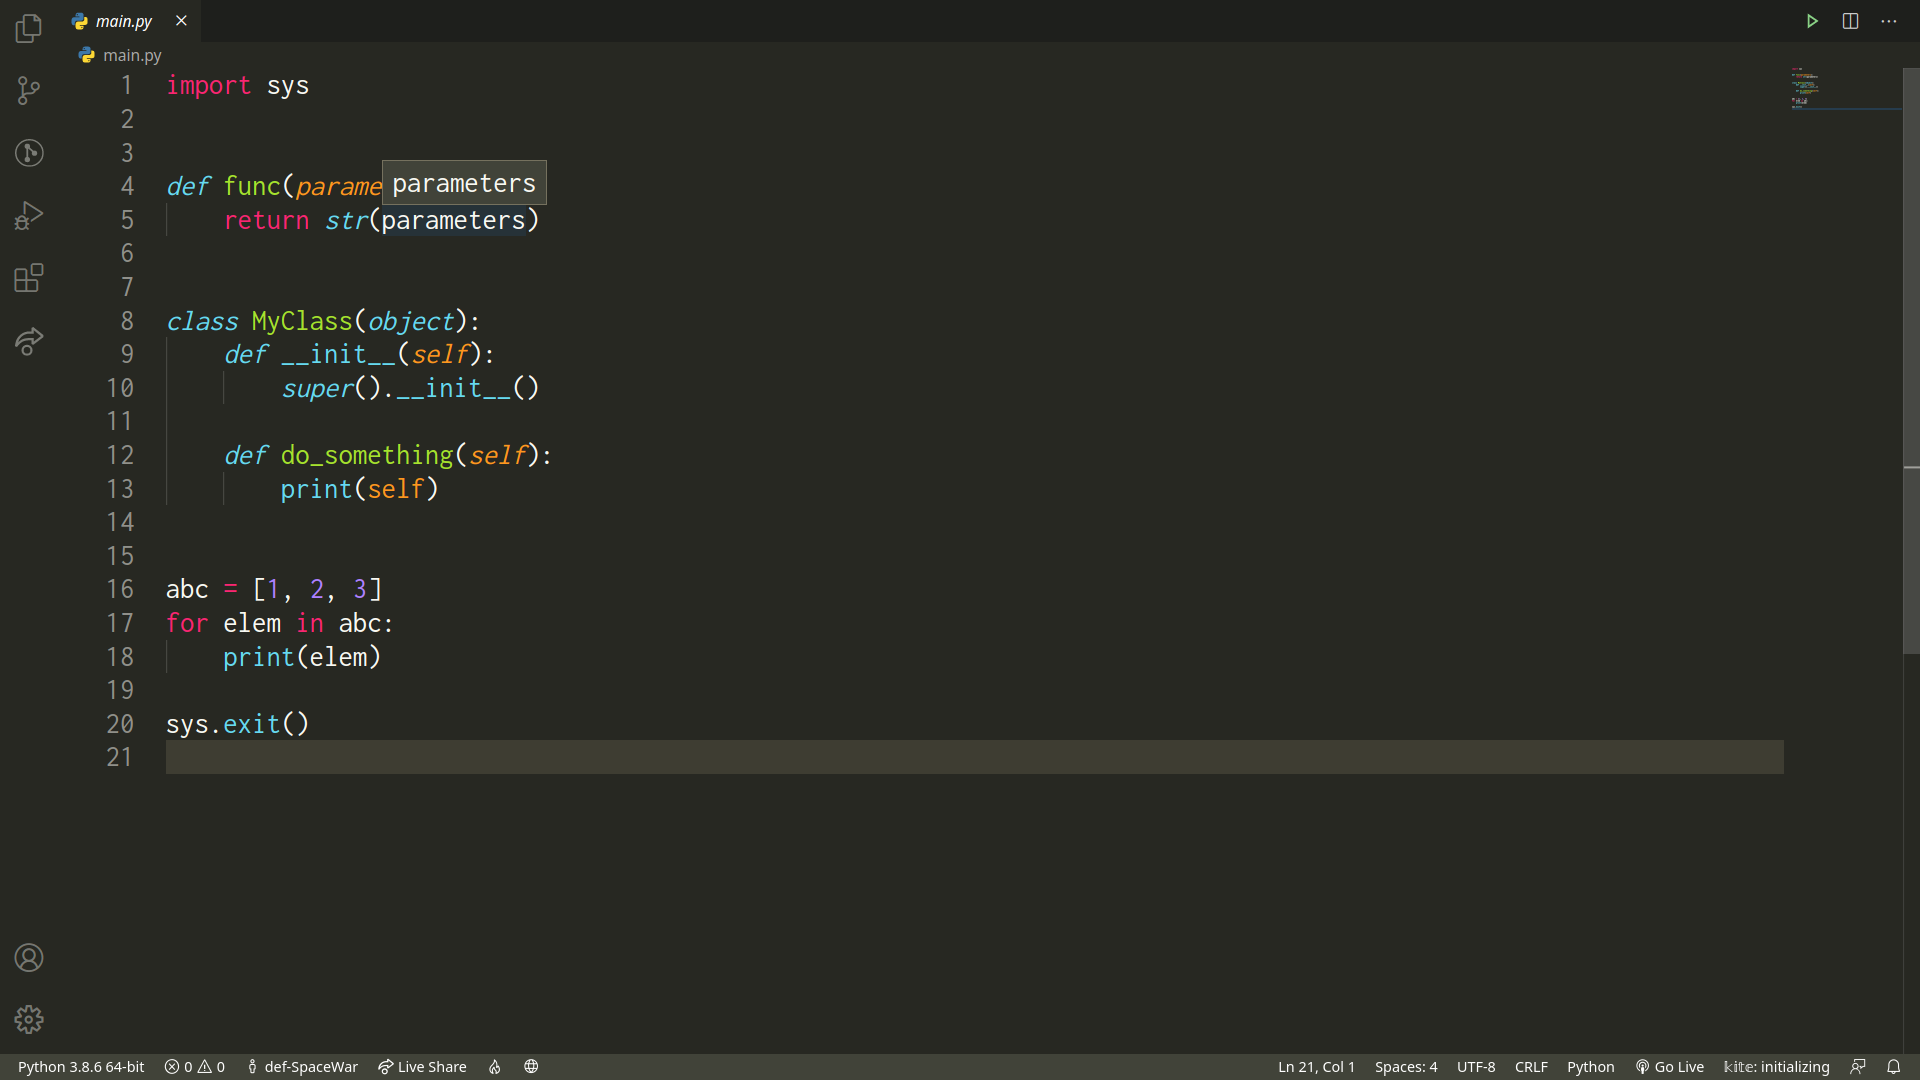
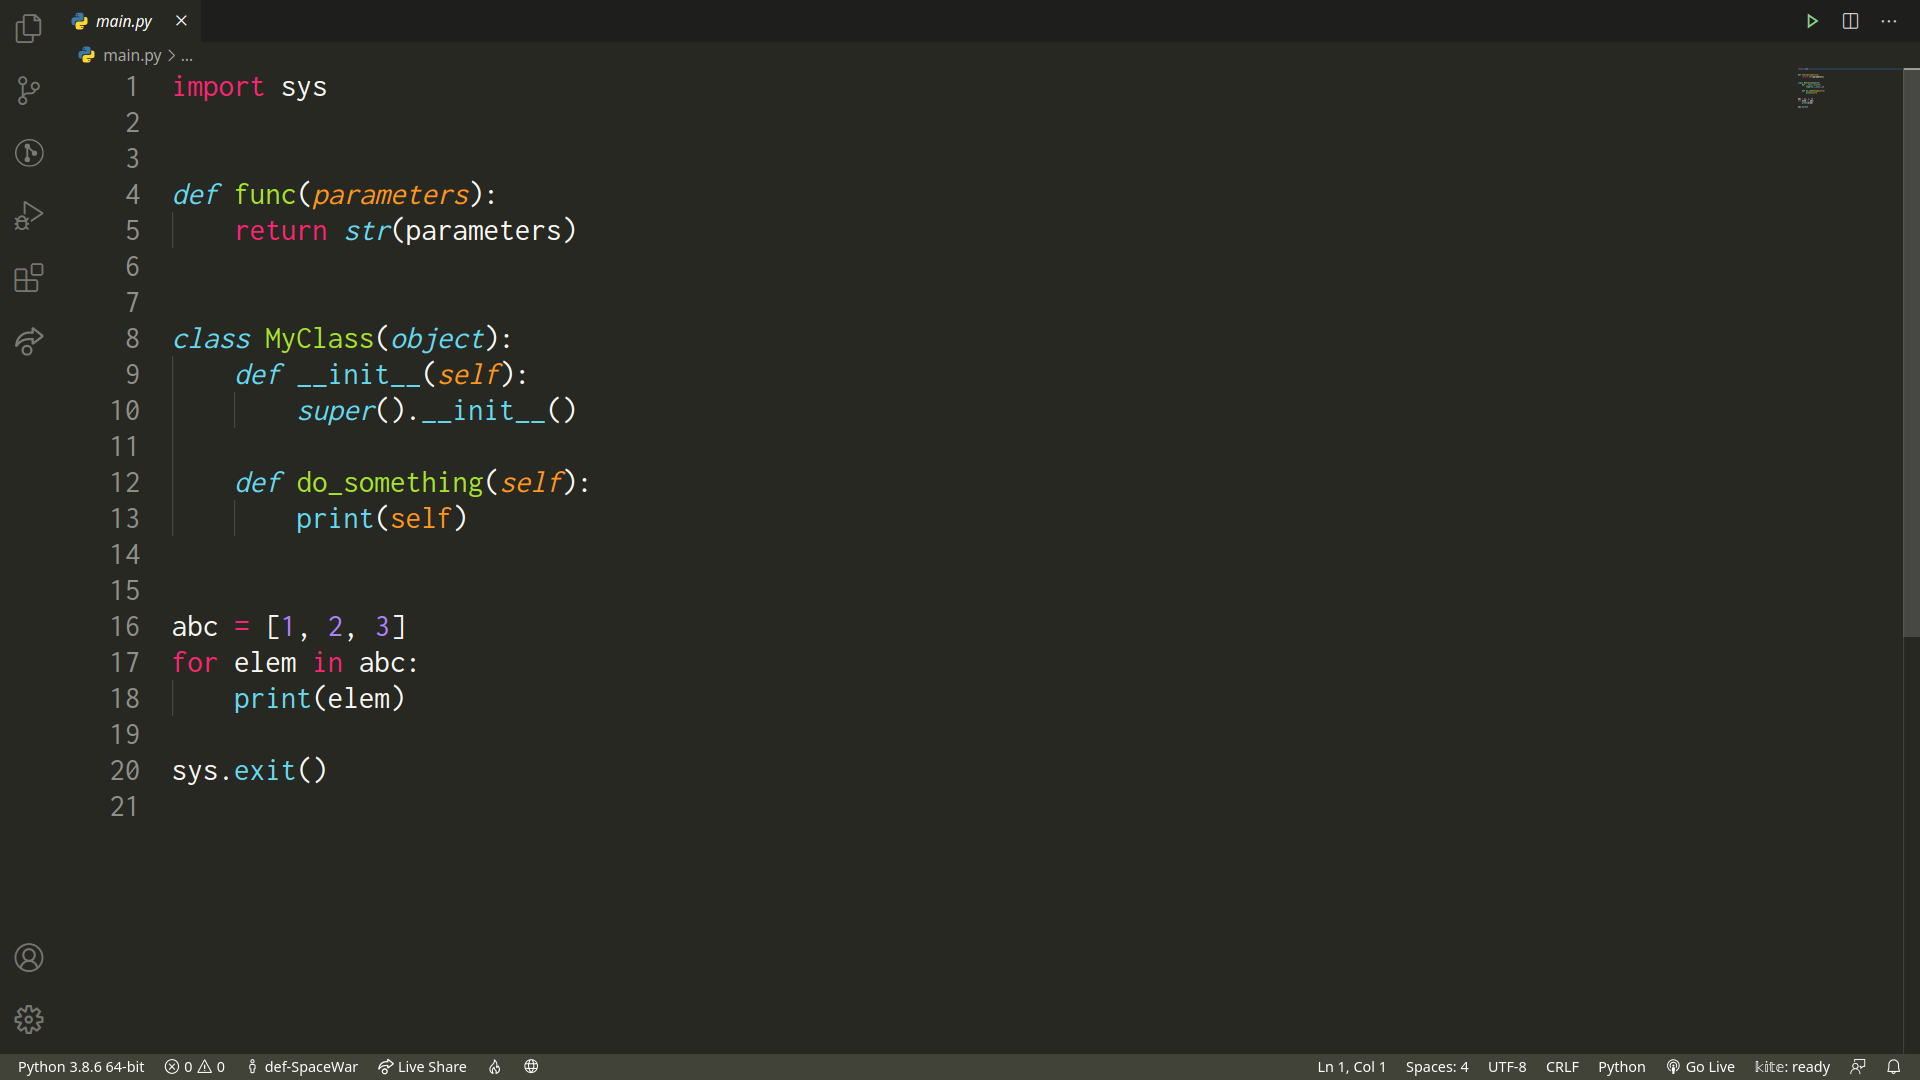
Added line no highlight mode

diff --git a/README.md b/README.md
@@ -10,15 +10,18 @@ To get the full experience goto your settings.json by doing `Ctrl+Shift+P` and f
 },
 ```
 
-And you'll also need to make sure that in your settings.json to get the full sublime experience:
+And you'll also need to make sure that in your settings.json to get the full sublime-like experience:
 
 ```json
 "editor.lineHeight": yourFontSize + 4,
+"editor.renderLineHighlight": "none",
 ```
 
 since
 
 <img src="./s1.png">
+
+<img src="./s3.png">
 
 Which is in the default sublime text settings and what makes it so beautiful.
 
